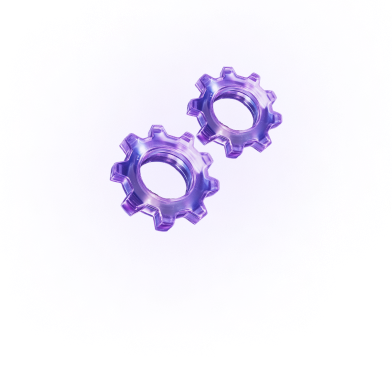
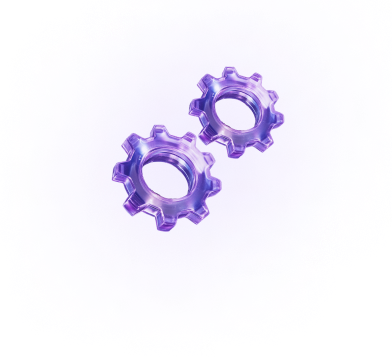
added responsive header navigation

Changed region(s): [[0.2755, 0.1849, 0.7347, 0.6471]]

diff --git a/src/components/Header/Header.jsx b/src/components/Header/Header.jsx
@@ -1,11 +1,57 @@
 import './Header.css';
 import logoFull from '../../assets/images/header/logo-accent-full.png';
+import burgerMenu from '../../assets/images/header/burger-menu.svg';
+import closeIcon from '../../assets/images/header/close-icon-white.svg';
+import {useEffect, useState} from "react";
 
 function Header({openWidget}) {
+    const [navToggle, setNavToggle] = useState(0);
+    const [smallScreen, setSmallScreen] = useState(window.innerWidth <= 1012 ? 1 : 0);
+    const handleResize = () => {
+        if (window.innerWidth <= 1012)
+            setSmallScreen(1);
+        else {
+            setSmallScreen(0);
+            setNavToggle(0);
+        }
+    };
+    useEffect(() => {
+        window.addEventListener('resize', handleResize);
+
+        return () => {
+            window.removeEventListener('resize', handleResize);
+        };
+    }, []);
+
+    function toggleScroll(){
+        let style = document.body.style.overflow
+        document.body.style.overflow = (style === 'hidden') ? 'auto':'hidden'
+    }
+    useEffect(() => {
+        toggleScroll();
+    }, [navToggle]);
+
         return (
         <div className="section-wrapper">
             <div className="header-wrapper">
-                <img className="header-logo" src={logoFull} alt="Streamiverse"/>
+                <a href={'/'}>
+                    <img className="header-logo" src={logoFull} alt="Streamiverse"/>
+                </a>
+                <div className={'nav-list header-nav-list'} style={{transform: `${navToggle === 0 ? 'translateY(-100%)' : 'translateY(0)'}`}}>
+                    <button className={'close-icon'} onClick={() => setNavToggle(0)}
+                            style={{visibility: `${navToggle === 0 ? 'hidden' : 'visible'}`}}>
+                        <img src={closeIcon} alt={'Close'}/>
+                    </button>
+                    <ul style={{transform: `${smallScreen === 0 ? 'translateY(100%)' : 'none'}`}}>
+                        <li><a href={'/features'}>Features</a></li>
+                        <li><a href={'/labs'}>Labs</a></li>
+                        <li><a href={''}>Contact Us</a></li>
+                    </ul>
+                </div>
+                <button className={'burger-menu'} onClick={() => setNavToggle(1)}
+                        style={{visibility: `${navToggle === 1 ? 'hidden' : 'visible'}`}}>
+                    <img src={burgerMenu} alt={'Burger Menu'}/>
+                </button>
                 <button className="button button-gradient header-button button-shrinkable" onClick={openWidget}>
                     <span>
                         Join the Waitlist
@@ -13,7 +59,7 @@ function Header({openWidget}) {
                 </button>
             </div>
         </div>
-    );
+        );
 }
 
 export default Header;

diff --git a/src/components/Header/Header.css b/src/components/Header/Header.css
@@ -4,10 +4,19 @@
     justify-content: space-between;
     align-items: center;
     z-index: 100;
+    button {
+        background-color: transparent;
+        border: none;
+        cursor: pointer;
+    }
 }
-.header-nav-list {
+.header-nav-list ul {
     display: flex;
     gap: min(2vw, 60px);
+}
+.burger-menu, .close-icon {
+    display: none;
+    width: 35px;
 }
 
 .header-logo {
@@ -21,11 +30,44 @@
     transform: translateX(-50%) translateY(20%);
 }
 
+@media (max-width: 1012px) {
+    .header-button {
+        display: none;
+    }
+    .burger-menu, .close-icon {
+        display: block;
+    }
+    .header-nav-list {
+        position: fixed;
+        inset: 0;
+        width: 100%;
+        height: 100vh;
+        background-color: var(--color-neutral-900);
+        transform: translateY(-100%);
+        transition: transform 0.5s ease-in-out;
+        z-index: 10;
+    }
+    .header-nav-list ul {
+        height: 100%;
+        flex-direction: column;
+        align-items: center;
+        justify-content: center;
+        gap: 60px;
+    }
+    .close-icon {
+        position: absolute;
+        top: 30px;
+        right: 30px;
+    }
+}
 @media (max-width: 861px) {
     .header-logo {
         content: url("../../assets/images/header/logo-accent.png");
         width: 32px;
         min-height: 32px;
+    }
+    .close-icon {
+        right: 24px;
     }
 }
 

diff --git a/src/components/Footer/Footer.jsx b/src/components/Footer/Footer.jsx
@@ -7,12 +7,14 @@ function Footer() {
         <div className={'background-neutral-500'}>
             <div id={'contact'} className={'section-wrapper'}>
                 <div className={'footer-wrapper'}>
-                    <img className={'footer-logo'} src={logoFull} alt={'Streamiverse'}/>
+                    <a href={'/'}>
+                        <img className={'footer-logo'} src={logoFull} alt={'Streamiverse'}/>
+                    </a>
                     <div className={'nav-list footer-nav-list'}>
                         <ul className={'nav-set-1'}>
-                            <li><a href={'#'}>Contact Us</a></li>
-                            <li><a href={'#'}>FAQ</a></li>
-                            <li><a href={'#'}>Follow Us</a></li>
+                            <li><a href={''}>Contact Us</a></li>
+                            <li><a href={''}>FAQ</a></li>
+                            <li><a href={''}>Follow Us</a></li>
                         </ul>
                         <ul className={'nav-set-2'}>
                             <li><a href={'/terms-of-use'} target='_blank' rel="noreferrer">Terms of Use</a></li>

diff --git a/src/App.css b/src/App.css
@@ -19,7 +19,7 @@ a {
     text-decoration: none;
 }
 
-.nav-list {
+.nav-list li{
     list-style: none;
 }
 
